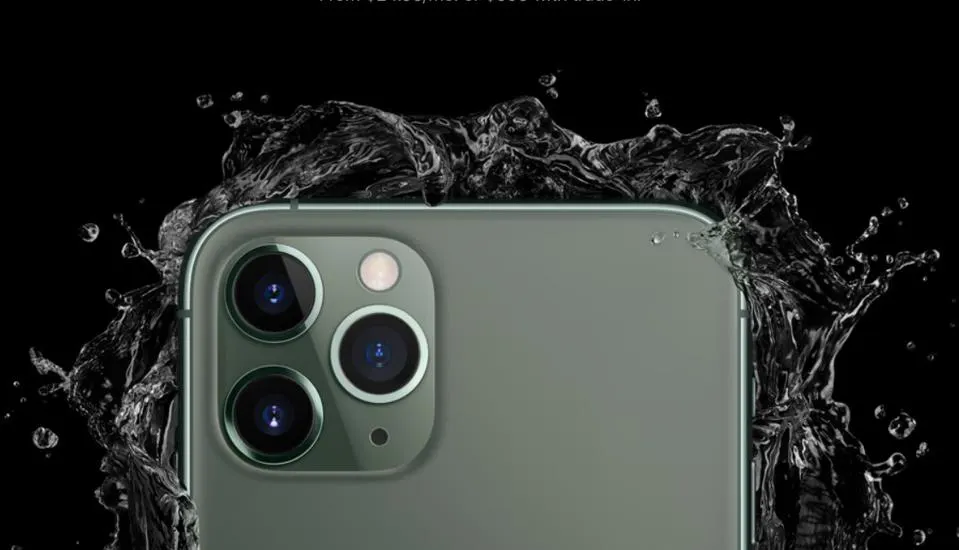
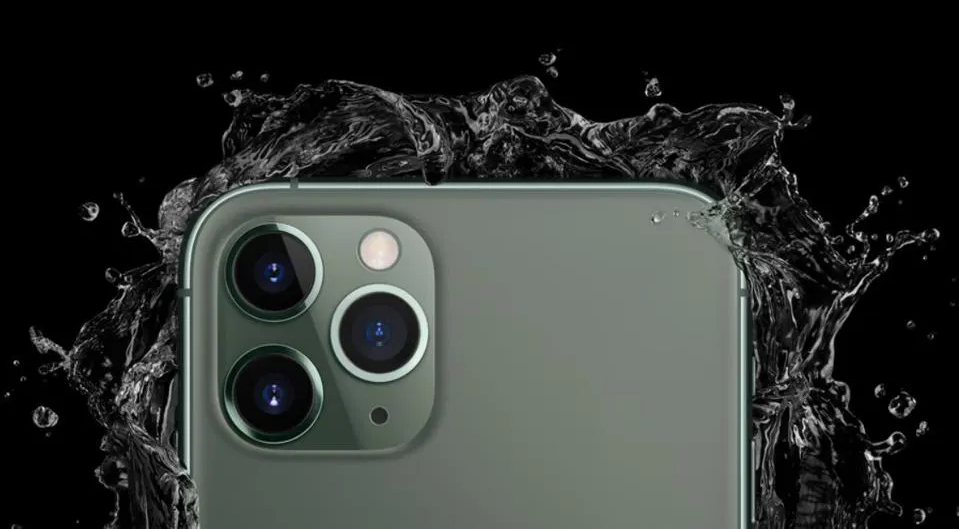
nearly done? probably done.

Changed region(s): [[0.0, 0.0907, 0.9979, 0.9679], [0.0302, 0.7561, 0.0605, 0.8166], [0.9374, 0.6049, 0.9677, 0.6352]]

diff --git a/index.html b/index.html
@@ -10,11 +10,78 @@
     <div class="main">
         <header>
             <ul>
-                <li><img src="images/whiteAppleLogo.png" alt="the apple logo, in white"></li>
-                <li></li>
+                <li><img class="smallLogo" src="images/whiteAppleLogo.png" alt="the apple logo, in white"></li>
+                <li>Mac</li>
+                <li>iPad</li>
+                <li>iPhone</li>
+                <li>Watch</li>
+                <li>TV</li>
+                <li>Music</li>
+                <li>Support</li>
             </ul>
         </header>
         <main>
+            <div class="iPhone11">
+                <br>
+                <img class="logo" src="images/AppleLogo.jpg" alt="the apple logo, in black">
+                <h1>iPhone 11</h1>
+                <div class="thispieceofshitlinkwontcenter">
+                    <a href="#">Shop Now ></a>
+                </div>    
+                <div class="IfIMust">
+                    <img class="bigPhone" src="images/image_processing20190917-8304-tbhyzc.png" alt="">
+                </div>
+            </div>
+            <div class="iPhonePro">
+                <br>
+                <h1>iPhone 11 Pro</h1>
+                <h2>Pro cameras. Pro display. Pro performance.</h2>
+                <p>From $24.95/mo. or $599 with trade-in.</p>
+                <div class="thispieceofshitlinkwontcenter">
+                    <a href="#">learn more > Buy ></a>
+                </div>
+                <img class="waterPhone" src="images/960x0.jpg" alt="">
+            </div>
+            <div class="grid">
+                <div>
+                    <h1>Mac</h1>
+                    <h2>Our most powerful pro lineup ever. Ready for your best work ever.</h2>
+                    <div class="thispieceofshitlinkwontcenter">
+                        <a href="#">Learn more > Buy ></a>
+                    </div>
+                    <br><br>
+                    <img src="images/images.png" alt="2 monitors connected to macs">
+                </div>
+                <div>
+                    <h1>iPad</h1>
+                    <h2>Like a computer. Unlike any computer.</h2>
+                    <div class="thispieceofshitlinkwontcenter">
+                        <a href="#">Learn more > Buy ></a>
+                    </div>
+                    <br><br>
+                    <img src="images/ipads.png" alt="iPads">
+                </div>
+            </div>
+            <div class="grid">
+                <div>
+                    <h1>iPhone</h1>
+                    <h2>Just the right amount of everything.</h2>
+                    <div class="thispieceofshitlinkwontcenter">
+                        <a href="#">Learn more > Buy ></a>
+                    </div>
+                    <br><br>
+                    <img src="images/Iphones.png" alt="iPhones">
+                </div>
+                <div>
+                    <h1>Watch</h1>
+                    <h2>You've never seen a watch like this.</h2>
+                    <div class="thispieceofshitlinkwontcenter">
+                        <a href="#">Learn more > Buy ></a>
+                    </div>
+                    <br><br>
+                    <img src="images/appleWatches.png" alt="">
+                </div>
+            </div>
         </main>
     </div>
 </body>

diff --git a/css/style.css b/css/style.css
@@ -16,9 +16,10 @@ ul{
     padding: 0px;
     height: 45px;
     justify-content: center;
+    flex-wrap: wrap;
 }
 li{
-    padding: 20px;
+    padding: 30px;
     align-self: center;
     font-family: sans-serif;
     color: white;
@@ -26,15 +27,116 @@ li{
 .smallLogo{
     height: 20px;
 }
-main{
-    height: 5000px;
-}
 .iPhone11{
     left: 0px;
     right: 0px;
+    font-family: sans-serif;
 }
-.iPhone11 img{   
-    height: 140px;
-    margin-left: calc(50vw - 70px);
-    margin-right: calc(50vw - 70px);
+.iPhone11 .logo{   
+    width: 60px;
+    margin-left: calc(50% - 30px);
+}
+.iPhone11 h1{
+    text-align: center;
+    font-size: 40px;
+}
+a{
+    color: rgb(61, 61, 255);
+    text-decoration: none;
+}
+.thispieceofshitlinkwontcenter{
+    text-align: center;
+}
+.IfIMust{
+    width: 50%;
+    margin-left: 25%;
+    margin-right: 25%;
+}
+.bigPhone{
+    display: block;
+    width: 100%;
+    max-width: 700px;
+    margin-left: auto;
+    margin-right: auto;
+}
+.iPhonePro{
+    background-color: black;
+    font-family: sans-serif;
+    margin-bottom: 20px;
+}
+.iPhonePro h1{
+    color: white;
+    background-color: black;
+    text-align: center;
+    font-size: 40px;
+}
+.iPhonePro a{
+    font-size: 22px;
+    color: rgb(92, 92, 255);
+}
+.iPhonePro h2{
+    color: white;
+    background-color: black;
+    text-align: center;
+    font-size: 25px;
+    font-weight: 300;
+    margin-left: 5%;
+    margin-right: 5%;
+}
+.iPhonePro p{
+    color: white;
+    background-color: black;
+    text-align: center;
+    font-size: 15px;
+}
+.waterPhone{
+    display: block;
+    width: 50%;
+    max-width: 1000px;
+    margin-left: auto;
+    margin-right: auto;
+}
+.grid{
+    display: flex;
+    justify-content: center;
+    flex-wrap: wrap;
+}
+.grid div{
+    display: block;
+    background-color: rgb(247, 247, 247);
+    width: calc(50vw - 40px);
+    margin-right: 20px;
+    margin-left: 20px;
+    margin-bottom: 20px;
+    justify-content: center;
+    font-family: sans-serif;
+    width: 900px;
+}
+.grid div h1{
+    text-align: center;
+    font-size: 40px;
+    margin-bottom: 0px;
+}
+.grid div h2{
+    text-align: center;
+    font-size: 22px;
+    font-weight: 600;
+    margin-left: 15%;
+    margin-right: 15%;
+    margin-top: 0px;
+}
+.grid div a{
+    margin-top: 10px;
+    font-size: 15px;
+}
+.grid .thispieceofshitlinkwontcenter{
+    height: auto;
+    width: auto;
+    margin-right: auto;
+    margin-left: auto;
+}
+.grid img{
+    width: 40%;
+    margin-left: 30%;
+    align-self: center;
 }
